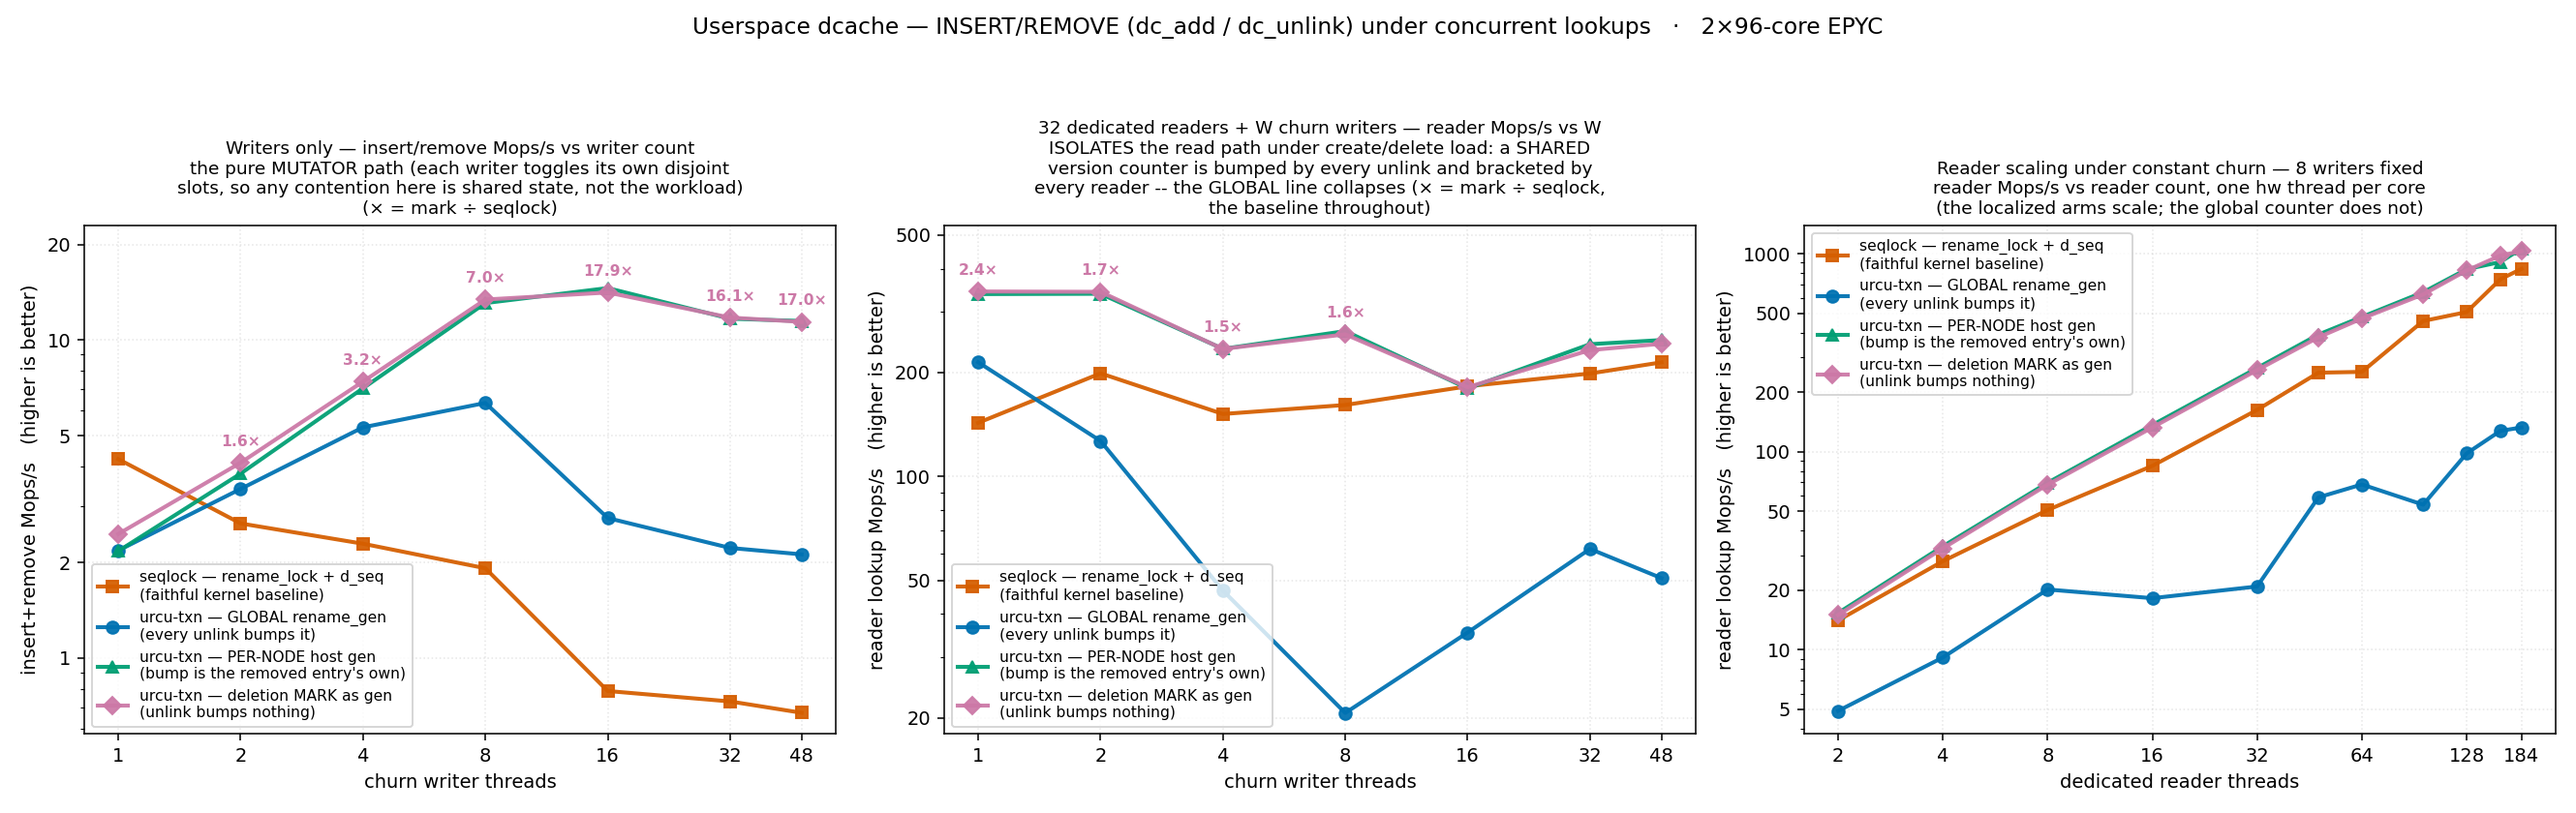
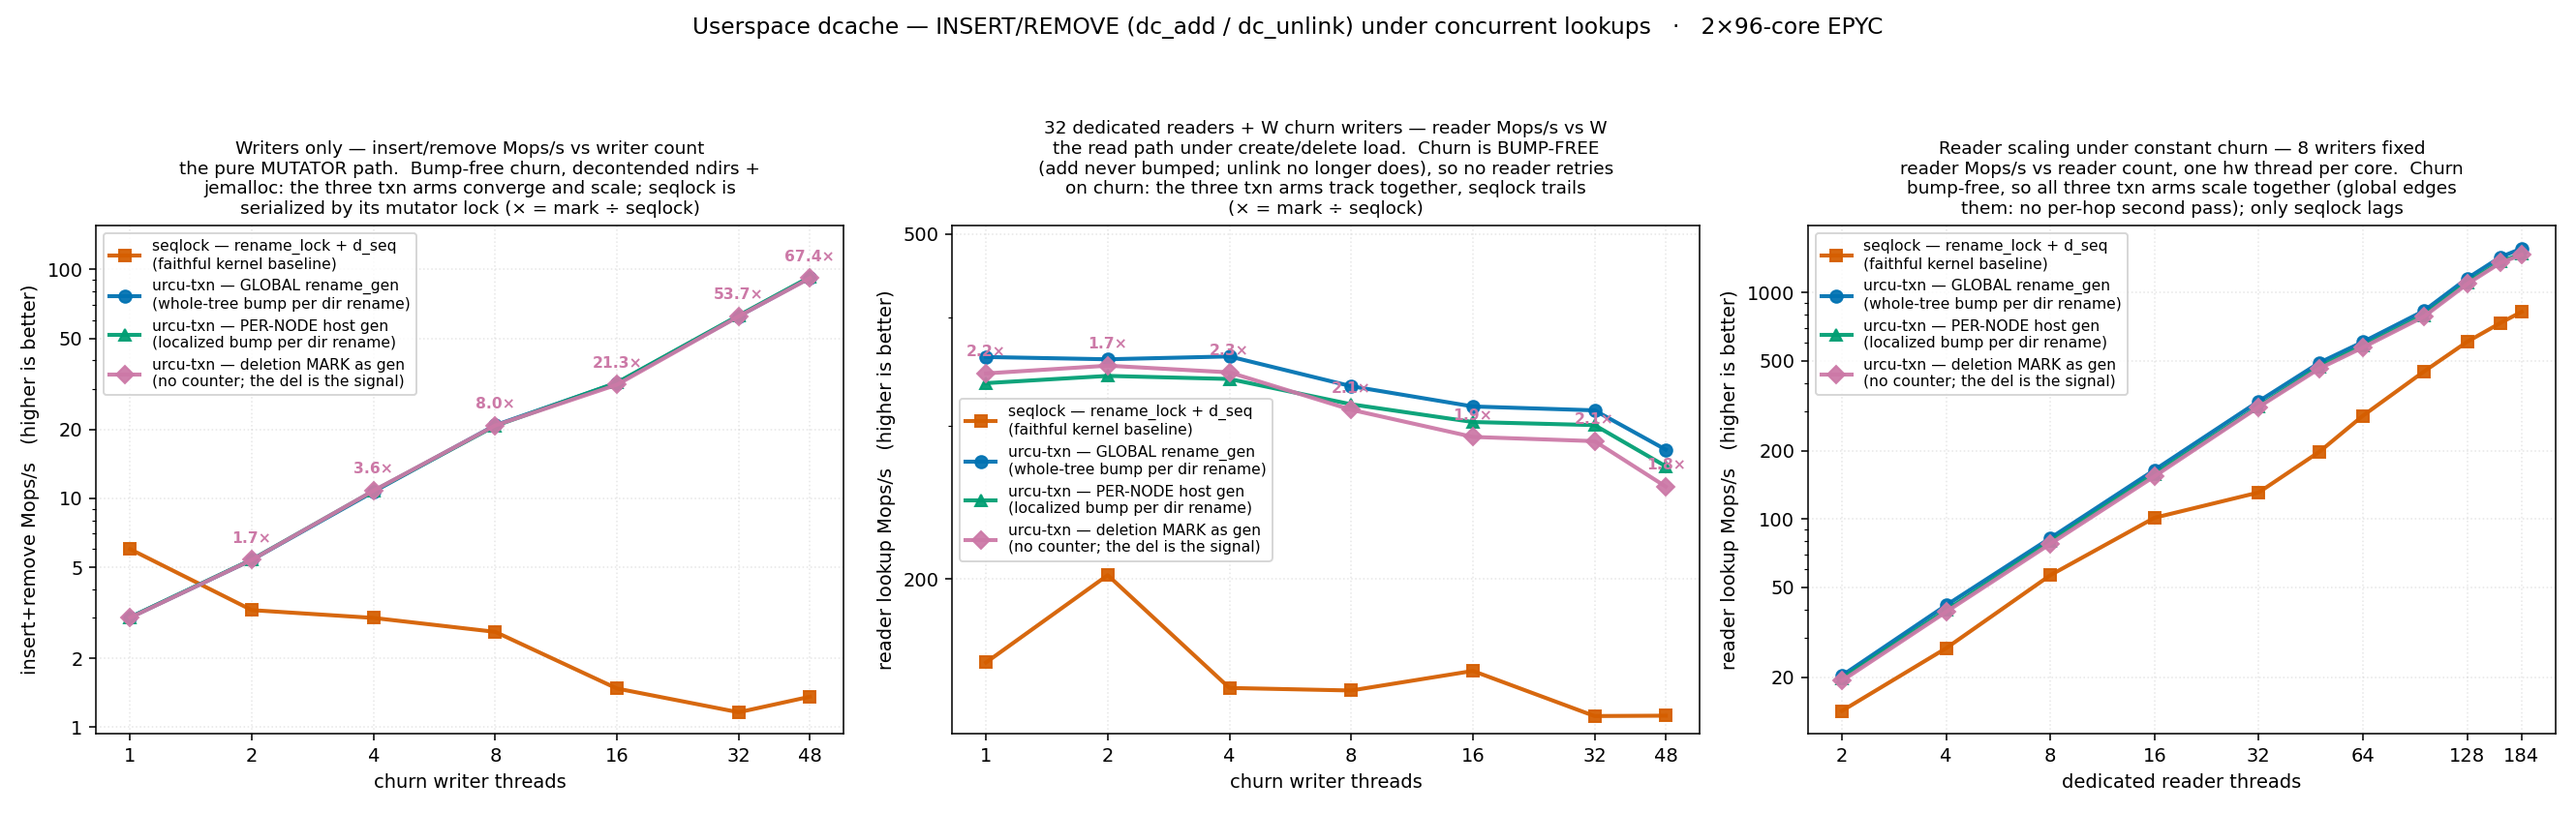
dcache: refresh the 3-panel churn figure on the corrected engine
Re-swept run_dcache_churn.sh on the bump-free engine, jemalloc + ndirs
decontended to 16*writers (the corrected methodology, matching
dcache_churn_scaling.png and dcache_optype.png).  100 rows, zero
conservation failures.

The conclusion changed, as with the scaling figure: churn is add + unlink
only, and neither bumps now (add never did; unlink stopped at 76d403d),
so churn generates no walk-causality traffic.  The three txn arms
therefore CONVERGE on all three panels -- writers, reader-vs-W, and reader
scaling -- and only seqlock (mutator-lock serialized) trails.  Global even
edges the localized arms slightly on the reader panels, because with the
counter stable it does no per-hop second pass (the same effect the file
side of dcache_optype.png shows).  The old figure's "global collapses"
was the unlink bump; removing it erased the collapse here.  Global's
collapse is now purely a DIRECTORY-operation effect -- see
dcache_optype.png.

Captions and the now-stale legend labels ("every unlink bumps it", "bump
is the removed entry's own") updated to describe the rename behavior that
actually distinguishes the arms, since unlink no longer bumps for any of
them.

diff --git a/scripts/plot_dcache_churn.py b/scripts/plot_dcache_churn.py
@@ -7,8 +7,10 @@ one churns it with dc_add / dc_unlink.
 
 Four arms:
   seqlock      faithful kernel-style rename_lock + per-dentry d_seq
-  txn-global   urcu-txn, GLOBAL rename_gen -- bumped by every unlink, and
-               bracketed by every reader, so it is the arm expected to collapse
+  txn-global   urcu-txn, GLOBAL rename_gen.  Churn is bump-free on the
+               corrected engine (unlink owes no bump), so global does NOT
+               collapse here -- it tracks the localized arms; its collapse
+               is a DIRECTORY-operation effect (see dcache_optype.png)
   txn-pernode  urcu-txn, PER-NODE host generation
   txn-mark     urcu-txn, no counter at all: the hlist deletion mark IS the
                version, so unlink bumps nothing
@@ -58,14 +60,14 @@ COLOR = {"seqlock": "#D55E00", "txn-global": "#0072B2",
 MARKER = {"seqlock": "s", "txn-global": "o", "txn-pernode": "^", "txn-mark": "D"}
 LABEL = {
     "seqlock": "seqlock — rename_lock + d_seq\n(faithful kernel baseline)",
-    "txn-global": "urcu-txn — GLOBAL rename_gen\n(every unlink bumps it)",
-    "txn-pernode": "urcu-txn — PER-NODE host gen\n(bump is the removed entry's own)",
-    "txn-mark": "urcu-txn — deletion MARK as gen\n(unlink bumps nothing)",
+    "txn-global": "urcu-txn — GLOBAL rename_gen\n(whole-tree bump per dir rename)",
+    "txn-pernode": "urcu-txn — PER-NODE host gen\n(localized bump per dir rename)",
+    "txn-mark": "urcu-txn — deletion MARK as gen\n(no counter; the del is the signal)",
 }
 # The global arm is KEPT here, unlike dcache_s3.png where it is dropped for
 # readability: on this workload it is the whole point.  Every unlink bumps one
-# whole-tree counter that every reader brackets on, and the collapse that
-# produces is the figure's main result.
+# whole-tree counter -- but on churn (bump-free) it never moves, so global
+# does not collapse here.  Kept plotted for the arm comparison.
 ENGINES = tuple(os.environ.get(
     "ENGINES", "seqlock txn-global txn-pernode txn-mark").split())
 ANNOT = os.environ.get("ANNOT", "txn-mark")
@@ -108,9 +110,10 @@ if ax1.has_data():
     plain_y(ax1)
     lo, hi = ax1.get_ylim(); ax1.set_ylim(lo, hi * 1.35)
 ax1.set_title("Writers only — insert/remove Mops/s vs writer count\n"
-              "the pure MUTATOR path (each writer toggles its own disjoint\n"
-              "slots, so any contention here is shared state, not the workload)\n"
-              "(× = mark ÷ seqlock)", fontsize=9.5)
+              "the pure MUTATOR path.  Bump-free churn, decontended ndirs +\n"
+              "jemalloc: the three txn arms converge and scale; seqlock is\n"
+              "serialized by its mutator lock (× = mark ÷ seqlock)",
+              fontsize=9.5)
 ax1.set_xlabel("churn writer threads")
 ax1.set_ylabel("insert+remove Mops/s   (higher is better)")
 ax1.grid(alpha=0.3, ls=":")
@@ -138,10 +141,10 @@ if ax2.has_data():
     plain_y(ax2)
     lo, hi = ax2.get_ylim(); ax2.set_ylim(lo, hi * 1.35)
 ax2.set_title("32 dedicated readers + W churn writers — reader Mops/s vs W\n"
-              "ISOLATES the read path under create/delete load: a SHARED\n"
-              "version counter is bumped by every unlink and bracketed by\n"
-              "every reader -- the GLOBAL line collapses (× = mark ÷ seqlock,\n"
-              "the baseline throughout)", fontsize=9.5)
+              "the read path under create/delete load.  Churn is BUMP-FREE\n"
+              "(add never bumped; unlink no longer does), so no reader retries\n"
+              "on churn: the three txn arms track together, seqlock trails\n"
+              "(× = mark ÷ seqlock)", fontsize=9.5)
 ax2.set_xlabel("churn writer threads")
 ax2.set_ylabel("reader lookup Mops/s   (higher is better)")
 ax2.grid(alpha=0.3, ls=":")
@@ -159,8 +162,9 @@ if ax3.has_data():
     plain_thread_x(ax3, [2, 4, 8, 16, 32, 64, 128, 184])
     plain_y(ax3)
 ax3.set_title("Reader scaling under constant churn — 8 writers fixed\n"
-              "reader Mops/s vs reader count, one hw thread per core\n"
-              "(the localized arms scale; the global counter does not)",
+              "reader Mops/s vs reader count, one hw thread per core.  Churn\n"
+              "bump-free, so all three txn arms scale together (global edges\n"
+              "them: no per-hop second pass); only seqlock lags",
               fontsize=9.5)
 ax3.set_xlabel("dedicated reader threads")
 ax3.set_ylabel("reader lookup Mops/s   (higher is better)")
